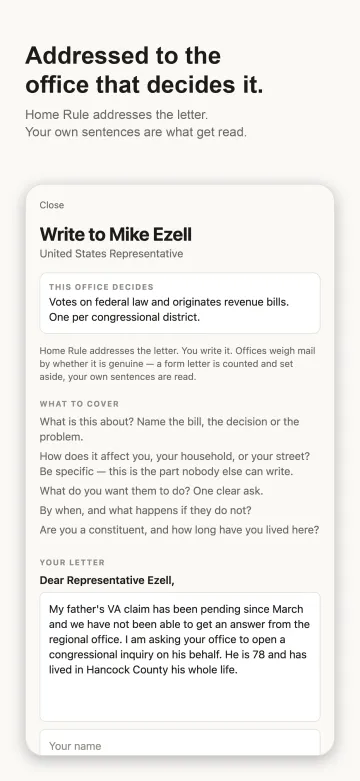
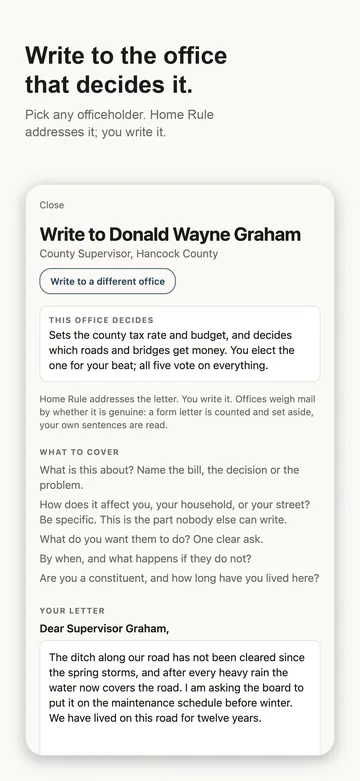
Home Rule pages true to upgrade R1: no change notices, no trial, real coverage, export, in-app delete; new shots
Claude-Session: 3686485a-7325-4383-b6d2-31ce4053344a

diff --git a/homerule/index.html b/homerule/index.html
@@ -96,17 +96,19 @@ elected and reported on by nobody.</p>
 <p>Most directories print the old name confidently and are quietly wrong for a
 year. This app would rather tell you it does not know.</p>
 
-<h2>Why it only shows federal and state offices where I live</h2>
+<h2>Why some local seats have no name</h2>
 
-<p>County, city and school seats are confirmed <strong>in Mississippi</strong>
-today. Everywhere else in the United States, Home Rule returns your federal and
-state offices, and names the local governments it knows have authority over
-your address without claiming to know who sits in them.</p>
+<p>Federal officers, statewide officers and state legislators are named for
+every US address. County officers are named in 45 states, for 2,092 of the
+3,235 counties and county equivalents: every county in 29 states, and the
+largest counties in others. Each county name says whether it came from the
+county itself or from a statewide directory, and when it was last checked.
+City and town offices are counted but not yet named anywhere, and the app says
+so rather than guessing. School superintendents are named in Mississippi.</p>
 
 <p>The reason is not effort, it is that there is no national machine-readable
-record of local officeholders. Every county, municipal and school seat in this
-app carries a name because a person opened that government's own website and
-read it. States are added as each is confirmed that way, never estimated.</p>
+record of local officeholders. A local name is shown only when a published
+record supports it, and the app tells you which record that was.</p>
 
 <h2>Why there is no rating, score or recommendation</h2>
 
@@ -133,13 +135,7 @@ confident is the single worst thing this app could cause.</p>
 
 <h2>Subscriptions</h2>
 
-<h3>The trial</h3>
-
-<p>Every subscription opens with <strong>a free trial of everything</strong>.
-Cancel before it ends and nothing is charged. The trial and its length are shown
-on the subscription screen inside the app.</p>
-
-<h3>What a subscription includes</h3>
+<h3>Free, with or without a subscription</h3>
 
 <ul>
   <li>Looking up any US address, with every government, office and
@@ -147,14 +143,15 @@ on the subscription screen inside the app.</p>
   your federal election dates</li>
 </ul>
 
-<h3>And on top of the lookup</h3>
+<h3>What a subscription adds</h3>
 
 <ul>
-  <li>Saving addresses, up to eight</li>
-  <li>Notice when a seat changes hands or stops being verified</li>
-  <li>Sourced notices of what these governments have done</li>
-  <li>Addressing a letter to the officeholder who decides the thing</li>
-  <li>Exporting a sourced record</li>
+  <li>Saving addresses on your device, up to eight</li>
+  <li>Recent recorded votes and financial filings for your members of
+  Congress, each linked to the official record</li>
+  <li>Addressing a letter to any officeholder on your list: the right title,
+  salutation and official contact route, in your own words</li>
+  <li>Sharing the sourced record for an address as plain text</li>
 </ul>
 
 <h3>Managing or cancelling</h3>
@@ -183,8 +180,10 @@ Apple what your Apple ID owns.</p>
 <h2>Your saved addresses</h2>
 
 <p>Looking up an address never saves it. Saving one is a separate, deliberate
-action, and what it writes stays on your device. Delete the app, or clear its
-data, and it is gone. There is nothing held on our side to ask us to delete.</p>
+action, and what it writes stays on your device until you remove it. To remove
+them, tap <strong>Delete saved addresses from this device</strong> at the
+bottom of the main screen (free, with or without a subscription), or delete the
+app. There is nothing held on our side to ask us to delete.</p>
 
 <p>An address already saved on your device stays readable whether or not a
 subscription is active. What a subscription buys is saving new ones, not

diff --git a/apps/homerule/index.html b/apps/homerule/index.html
@@ -109,7 +109,7 @@
 <h1>Home Rule</h1>
 <p class="lp-blurb">Everyone who governs your address, on one screen: the districts, the offices, the names, and when each of them is next up for election.</p>
 <div class="lp-cta"><a class="lp-btn hero" href="mailto:support@carrierpress.com?subject=Home%20Rule">Tell me when it is out<small>One email, nothing else</small></a></div>
-<p class="lp-price">$5.99/mo or $39.99/yr<span>In the App Store app: a free trial, then the subscription.</span></p>
+<p class="lp-price">$5.99/mo or $39.99/yr<span>Looking up any address is free. The subscription adds the tools below.</span></p>
 </div>
 <div class="lp-hero-shot"><img src="/apps/shots/homerule/01-count.webp" alt="Home Rule, screen 1 of 5" width="290" height="629" decoding="async"></div>
 </div></section>
@@ -120,7 +120,7 @@
 <a href="/apps/shots/homerule/04-record.webp"><img src="/apps/shots/homerule/04-record.webp" alt="Home Rule, screen 4 of 5" width="240" height="520" loading="lazy" decoding="async"></a>
 <a href="/apps/shots/homerule/05-letter.webp"><img src="/apps/shots/homerule/05-letter.webp" alt="Home Rule, screen 5 of 5" width="240" height="520" loading="lazy" decoding="async"></a>
 </div>
-<div class="lp-split"><div class="lp-box"><h2>Try it</h2><p>Three days of everything, then the subscription. Cancel before it ends and nothing is charged.</p></div><div class="lp-box"><h2>What the purchase buys</h2><p>The subscription saves addresses, watches them for redistricting, and adds the election calendar.</p></div></div>
+<div class="lp-split"><div class="lp-box"><h2>Free, forever</h2><p>Any US address, every government, every office and officeholder, every source and check date, and your election dates. No account.</p></div><div class="lp-box"><h2>What the purchase buys</h2><p>The subscription saves up to eight addresses on your device, adds recent votes and filings for your members of Congress, addresses a letter to any officeholder you pick, and shares the sourced record as plain text.</p></div></div>
 <div class="lp-tip"><p><strong>Support the build.</strong> These apps are made by one independent developer, with no advertising and no investors. If you want to see this one finished, a tip helps pay for the time.</p><p><a class="lp-btn" href="https://jeffreycarrier.gumroad.com/coffee" target="_blank" rel="noopener">Leave a tip<small>Pay what you want, from $3</small></a></p><p class="fine">A tip buys nothing and unlocks nothing. It is a payment to Jeffrey L. Carrier, not a donation to a charity, and it is not tax-deductible.</p></div>
 <div class="lp-foot"><a href="/apps/">All apps and prices</a><a href="/homerule/">Support</a><a href="/homerule/privacy/">Privacy</a></div>
 </section>

diff --git a/apps/index.html b/apps/index.html
@@ -287,7 +287,7 @@
 <div class="ap-shots"><a href="/apps/shots/homerule/01-count.webp"><img src="/apps/shots/homerule/01-count-sm.webp" alt="Home Rule, screenshot 1 of 5" width="104" height="225" loading="lazy" decoding="async"></a><a href="/apps/shots/homerule/02-county-seats.webp"><img src="/apps/shots/homerule/02-county-seats-sm.webp" alt="Home Rule, screenshot 2 of 5" width="104" height="225" loading="lazy" decoding="async"></a><a href="/apps/shots/homerule/03-election-dates.webp"><img src="/apps/shots/homerule/03-election-dates-sm.webp" alt="Home Rule, screenshot 3 of 5" width="104" height="225" loading="lazy" decoding="async"></a><a href="/apps/shots/homerule/04-record.webp"><img src="/apps/shots/homerule/04-record-sm.webp" alt="Home Rule, screenshot 4 of 5" width="104" height="225" loading="lazy" decoding="async"></a><a href="/apps/shots/homerule/05-letter.webp"><img src="/apps/shots/homerule/05-letter-sm.webp" alt="Home Rule, screenshot 5 of 5" width="104" height="225" loading="lazy" decoding="async"></a></div>
 <p class="ap-blurb">Everyone who governs your address, on one screen: the districts, the offices, the names, and when each of them is next up for election.</p>
 <div class="ap-price">$5.99/mo or $39.99/yr
-<span class="tag">3-day free trial, then the subscription. Cancel before it ends and nothing is charged.</span>
+<span class="tag">Lookup free forever; the subscription adds saving, the federal record, letters and export.</span>
 </div>
 <p class="ap-note">The subscription saves addresses, watches them for redistricting, and adds the election calendar.</p>
 

diff --git a/homerule/privacy/index.html b/homerule/privacy/index.html
@@ -52,7 +52,7 @@
 
 <div class="policy">
 
-<p class="updated">Last updated 2 October 2026.</p>
+<p class="updated">Last updated 3 October 2026.</p>
 
 <p>Home Rule tells you which governments have authority over an address and who
 currently holds office in them. There is no account, no sign in, and no server
@@ -82,8 +82,9 @@ retype them. That is a separate, deliberate act, and what it writes stays on you
 own device. There is no account to attach it to and no server to send it to.</p>
 
 <p>So the promise is precise rather than sweeping: we never keep your address.
-You can, and only you. On the web those saved addresses live in your browser's
-own storage for this site and disappear when you clear site data.</p>
+You can, and only you. On the phone they are kept in the app's own storage until
+you delete them or the app. On the web they live in your browser's own storage
+for this site and disappear when you clear site data.</p>
 
 <h2>What else the app keeps on your device</h2>
 
@@ -118,7 +119,9 @@ and an address is only ever one you typed.</p>
 
 <h2>Deleting it</h2>
 
-<p>Delete the app, or clear its data. That removes anything you chose to save.
+<p>To remove saved addresses, tap <strong>Delete saved addresses from this
+device</strong> at the bottom of the app's main screen; it needs no
+subscription. Deleting the app, or clearing its data, removes everything above.
 There is nothing held on our side to ask us to delete, and nothing for us to
 recover if you change your mind.</p>
 
